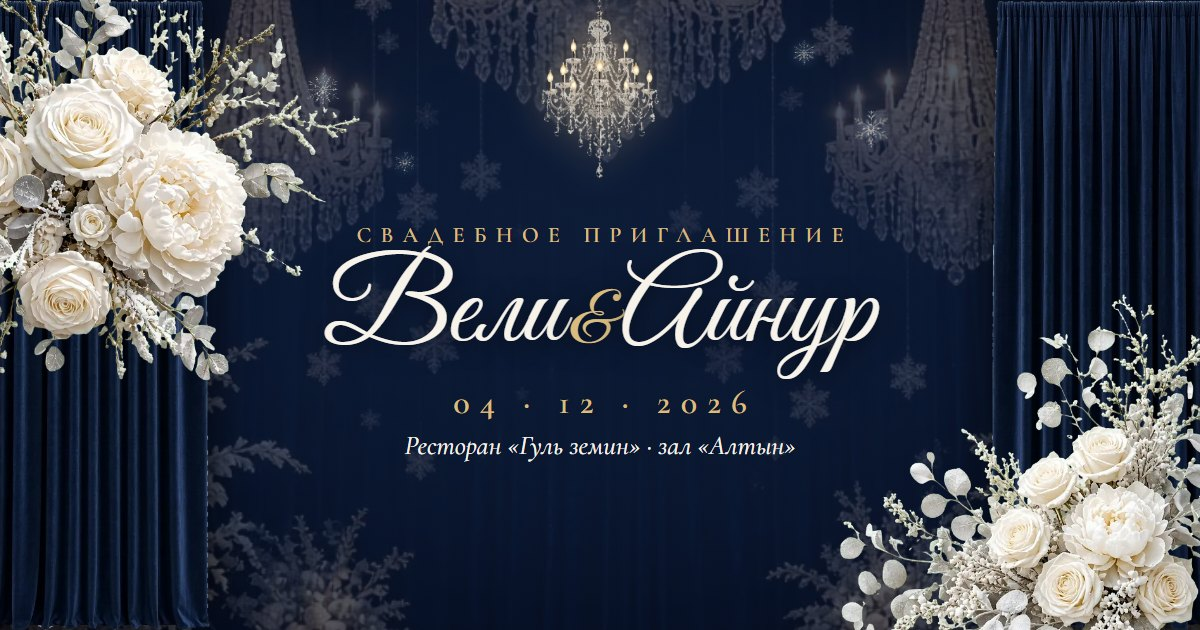
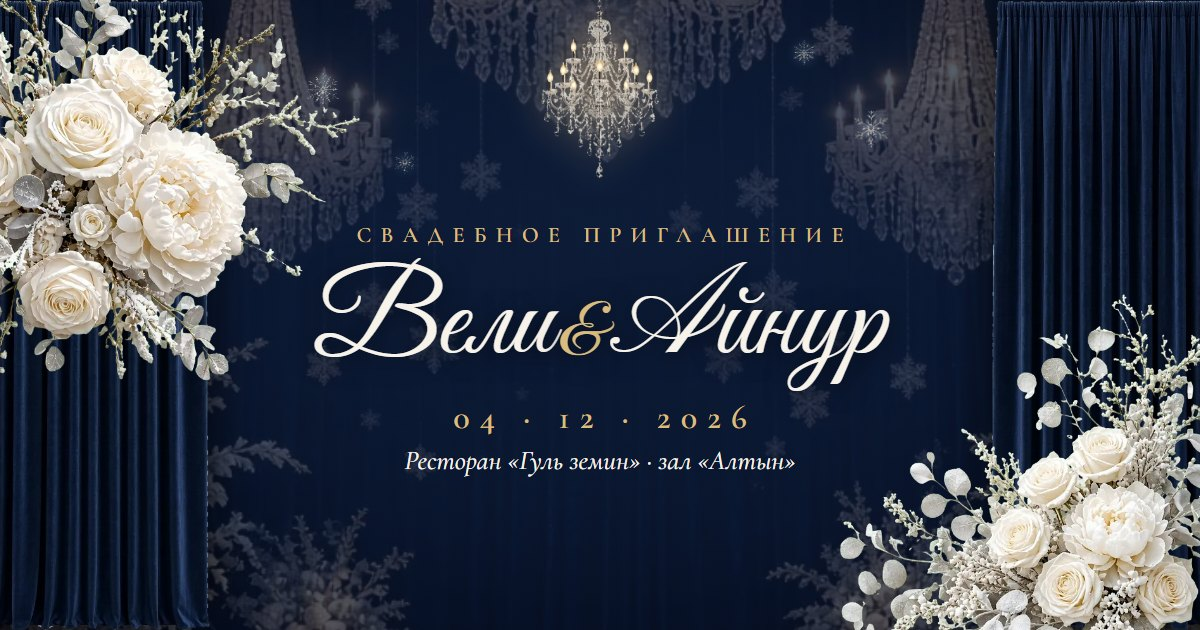
Program, photo order, cover and ending cleanup
- Cover: no swag or chandelier; bigger wreath, sits higher
- Photos: IMG_9020, IMG_9041, IMG_9100
- Evening program under «Где и когда», lines reveal on scroll
- Capital А in Айнур drawn from Pinyon Script
- Ending: initials only, no «Спасибо», no bottom flowers

Changed region(s): [[0.2467, 0.3921, 0.74, 0.6333], [0.3392, 0.6333, 0.6783, 0.754]]

diff --git a/style.css b/style.css
@@ -28,7 +28,7 @@ body.locked { overflow: hidden; height: 100svh; }
 img { display: block; max-width: 100%; }
 
 /* ===== Cover ===== */
-/* Layers, back to front: ballroom → curtains → glow → hanging flakes → chandelier → swag → text.
+/* Layers, back to front: ballroom → curtains → glow → hanging flakes → text.
    Curtains part to show the ballroom, then the whole gate fades into the hero photo. */
 .gate { position: fixed; inset: 0; z-index: 50; overflow: hidden; background: var(--navy); transition: opacity 1.2s 1.7s; }
 .gate.open { opacity: 0; }
@@ -44,23 +44,6 @@ img { display: block; max-width: 100%; }
 .open .curtain-l { transform: translateX(-104%); }
 .open .curtain-r { transform: translateX(104%) scaleX(-1); }
 
-.chandelier {   /* in the cover's flex column: takes the height left between swag and wreath, shrinks on short phones */
-  flex: 1 1 0; min-height: 0; max-height: 240px; width: 100%;
-  object-fit: contain; object-position: 50% 0;
-  margin-top: 20vw;   /* chain starts behind the swag */
-  filter: drop-shadow(0 0 22px rgba(255, 214, 140, .55));
-  animation: twinkle 4s ease-in-out infinite alternate;
-}
-.swag {
-  z-index: 5; top: 0; left: 50%; width: max(100%, 480px); translate: -50% 0;
-  margin-top: -6%;
-  filter: drop-shadow(0 8px 14px rgba(0, 0, 0, .5));
-  transition: transform 1.6s var(--ease) .5s;
-}
-.open .swag { transform: translateY(-110%); }
-@media (max-height: 700px) { .chandelier { visibility: hidden; } }   /* iPhone SE etc.: only a sliver would show under the swag */
-@keyframes twinkle { from { filter: drop-shadow(0 0 16px rgba(255, 214, 140, .4)); } to { filter: drop-shadow(0 0 30px rgba(255, 220, 160, .75)); } }
-
 .glow {
   position: absolute; inset: 0; z-index: 2; pointer-events: none;
   background: radial-gradient(60% 38% at 50% 12%, rgba(255, 224, 160, .3), transparent 70%);
@@ -69,7 +52,7 @@ img { display: block; max-width: 100%; }
 .open .glow { opacity: 0; }
 
 .cover {
-  position: absolute; inset: 0; z-index: 4;   /* under the swag so the chandelier chain hides behind it */
+  position: absolute; inset: 0; z-index: 4;
   display: flex; flex-direction: column; align-items: center; justify-content: flex-end;
   gap: min(12px, 1.4svh); padding: 0 24px calc(6svh + env(safe-area-inset-bottom)); text-align: center; color: var(--ivory);
   background: linear-gradient(transparent 45%, rgba(6, 14, 32, .55) 75%);
@@ -77,10 +60,10 @@ img { display: block; max-width: 100%; }
 }
 .open .cover { opacity: 0; transform: scale(.94); pointer-events: none; }
 
-.monogram { position: relative; width: min(52vw, 210px, 26svh); aspect-ratio: 1; display: grid; place-items: center; }
+.monogram { position: relative; width: min(74vw, 300px, 37svh); aspect-ratio: 1; display: grid; place-items: center; margin-bottom: 5svh; }
 .monogram img { position: absolute; inset: 0; width: 100%; height: 100%; }
 .monogram p {
-  position: relative; font: clamp(2.6rem, 12vw, 3.4rem)/1 var(--script); color: var(--gold);
+  position: relative; font: clamp(3rem, 15vw, 4.4rem)/1 var(--script); color: var(--gold);
   text-shadow: 0 0 14px rgba(6, 14, 32, .9), 0 0 18px rgba(255, 215, 150, .35);
 }
 .monogram i { font-style: normal; font-size: .55em; color: var(--ivory); padding: 0 2px; }
@@ -147,9 +130,10 @@ img { display: block; max-width: 100%; }
   opacity: 0; transform: translateY(24px); transition: opacity 1.4s 1.2s, transform 1.6s var(--ease) 1.2s;
 }
 .revealing .hero-text, body:not(.locked) .hero-text { opacity: 1; transform: none; }
-.kicker { letter-spacing: .34em; text-transform: uppercase; font-size: .8rem; color: var(--gold); }
+.kicker { letter-spacing: .34em; text-transform: uppercase; font-size: .8rem; color: var(--gold); margin-bottom: 22px; }
 .names { font: 400 clamp(3.4rem, 16vw, 6rem)/.95 var(--script); text-shadow: 0 2px 20px rgba(0, 0, 0, .45); }
-.names span { display: block; }
+.names > span { display: block; }
+.cap { font-family: 'Pinyon Script', var(--script); font-size: 1.12em; }
 .names .amp { font-size: .5em; color: var(--gold); line-height: 1.2; }
 .hero-date { margin-top: 10px; font-style: italic; font-size: 1.15rem; }
 .scroll-line {
@@ -172,7 +156,6 @@ img { display: block; max-width: 100%; }
 .corner { position: absolute; z-index: 0; width: min(60vw, 320px); pointer-events: none; }
 .corner-top { top: -14px; left: 4px; }
 .corner-bottom { bottom: -10px; right: -6px; }
-.spray { width: min(86%, 380px); margin: 0 auto 20px; }
 section { text-align: center; }
 .greeting, .date, .venue { padding: 64px 0; }
 .title { font: 400 2.8rem/1.1 var(--script); color: var(--ink); margin-bottom: 26px; }
@@ -231,12 +214,25 @@ section { text-align: center; }
 .map { border-radius: 4px; overflow: hidden; box-shadow: 0 8px 24px rgba(16, 32, 66, .15); margin-bottom: 24px; }
 .map iframe { display: block; width: 100%; height: 260px; border: 0; filter: saturate(.75); }
 
+/* Evening program: a gold line with a dot per item; each item fades in as it scrolls into view */
+.program { padding: 8px 0 64px; }
+.timeline { list-style: none; padding: 0; margin: 0 auto; max-width: 360px; position: relative; text-align: left; }
+.timeline::before { content: ''; position: absolute; left: 76px; top: 10px; bottom: 10px; width: 1px; background: linear-gradient(transparent, var(--gold-deep) 12%, var(--gold-deep) 88%, transparent); }
+.timeline li {
+  display: grid; grid-template-columns: 62px 1fr; gap: 28px; align-items: baseline; padding: 12px 0; position: relative;
+  opacity: 0; transform: translateY(18px); transition: opacity .8s, transform 1s var(--ease);
+}
+.timeline li.in { opacity: 1; transform: none; }
+.timeline li::before { content: ''; position: absolute; left: 72px; top: 22px; width: 9px; height: 9px; border-radius: 50%; background: var(--ivory); border: 1px solid var(--gold-deep); }
+.timeline time { font-size: 1.35rem; font-weight: 600; color: var(--gold-deep); text-align: right; font-variant-numeric: tabular-nums; }
+.timeline span { font-size: 1.2rem; line-height: 1.35; }
+
 .date, .venue, .greeting { opacity: 0; transform: translateY(24px); transition: opacity 1s, transform 1.2s var(--ease); }
 .date.in, .venue.in, .greeting.in { opacity: 1; transform: none; }
 
 /* ===== Closing ===== */
 .closing {
-  position: relative; overflow: hidden; padding: 24svh 24px 0; color: var(--ivory); background: var(--navy);
+  position: relative; overflow: hidden; padding: 20svh 24px 14svh; color: var(--ivory); background: var(--navy);
 }
 .closing-room { position: absolute; inset: 0; width: 100%; height: 100%; object-fit: cover; opacity: .7; }
 .closing::before {   /* darken top and middle so the text stays readable */
@@ -246,11 +242,9 @@ section { text-align: center; }
 .closing > :not(.closing-room) { position: relative; z-index: 3; }
 .closing-wreath { width: min(84vw, 360px); aspect-ratio: 1; margin: 0 auto; display: grid; place-items: center; }
 .closing-wreath img { position: absolute; inset: 0; width: 100%; height: 100%; }
-.closing-wreath div { position: relative; }
-.closing-fg { display: block; width: min(112%, 760px); max-width: none; margin: 18px 0 0 50%; translate: -50% 6%; }  /* wider than its box: margin:auto would only overflow to the right */
 .closing .hangers { z-index: 2; }
-.thanks { font: clamp(3rem, 14vw, 3.8rem)/1 var(--script); color: var(--gold); text-shadow: 0 0 14px rgba(6, 14, 32, .9), 0 0 22px rgba(255, 215, 150, .35); }
-.sig { font: clamp(1.8rem, 8vw, 2.2rem)/1.3 var(--script); margin-top: 4px; text-shadow: 0 0 12px rgba(6, 14, 32, .9); }
+.closing-mono { position: relative; font: clamp(3.4rem, 17vw, 4.6rem)/1 var(--script); color: var(--gold); text-shadow: 0 0 14px rgba(6, 14, 32, .9), 0 0 22px rgba(255, 215, 150, .35); }
+.closing-mono i { font-style: normal; font-size: .55em; color: var(--ivory); padding: 0 2px; }
 .closing-note { max-width: 420px; margin: 22px auto 0; font-style: italic; font-size: 1.25rem; opacity: .92; }
 footer { background: #071025; color: rgba(217, 188, 126, .75); text-align: center; padding: 22px; letter-spacing: .24em; font-size: .85rem; }
 

diff --git a/index.html b/index.html
@@ -21,14 +21,12 @@
 <link rel="icon" href="assets/flake-2.webp" type="image/webp">
 <link rel="preconnect" href="https://fonts.googleapis.com">
 <link rel="preconnect" href="https://fonts.gstatic.com" crossorigin>
-<link href="https://fonts.googleapis.com/css2?family=Cormorant+Garamond:ital,wght@0,400;0,500;0,600;1,400;1,500&family=Great+Vibes&display=swap" rel="stylesheet">
+<link href="https://fonts.googleapis.com/css2?family=Cormorant+Garamond:ital,wght@0,400;0,500;0,600;1,400;1,500&family=Great+Vibes&family=Pinyon+Script&display=swap" rel="stylesheet">
 <link rel="preload" as="image" href="assets/curtain.webp">
-<link rel="preload" as="image" href="assets/swag.webp">
 <link rel="preload" as="image" href="assets/wreath.webp">
-<link rel="preload" as="image" href="assets/chandelier.webp">
 <link rel="preload" as="image" href="assets/ballroom.webp">
 <link rel="preload" as="image" href="assets/hero.webp">
-<link rel="stylesheet" href="style.css?v=9"><!-- bump ?v= on every change so phones skip their cached copy -->
+<link rel="stylesheet" href="style.css?v=10"><!-- bump ?v= on every change so phones skip their cached copy -->
 
 <script>
 // ===== EDIT ONLY THIS BLOCK =====
@@ -40,6 +38,13 @@ const CONFIG = {
   greeting: 'Два сердца, одна судьба. С огромной радостью приглашаем вас разделить с нами самый счастливый день — день, когда начинается наша семья.',
   events: [
     { title: 'Свадебное торжество', time: '18:00', place: 'Ресторан «Гуль земин»', address: 'Большой зал «Алтын»' },
+  ],
+  program: [                            // evening program, shown under «Где и когда»
+    { time: '18:00', title: 'Сбор гостей' },
+    { time: '18:30', title: 'Торжественный выход молодожёнов' },
+    { time: '19:00', title: 'Начало праздничной программы' },
+    { time: '21:00', title: 'Свадебный торт' },
+    { time: '22:30', title: 'Завершение вечера' },
   ],
   mapQuery: '',  // Google Maps search text or "lat,lng" (not shown to guests); '' hides the map. Google doesn't find «Гуль земин» by name.
   closing: 'Ваше присутствие — самый ценный подарок для нас. С нетерпением ждём встречи с вами в этот зимний вечер!',
@@ -56,10 +61,8 @@ const CONFIG = {
   <img class="curtain curtain-r" src="assets/curtain.webp" alt="">
   <div class="glow" aria-hidden="true"></div>
   <div class="hangers" data-hang="7" aria-hidden="true"></div>
-  <img class="swag" src="assets/swag.webp" alt="">
 
   <div class="cover">
-    <img class="chandelier" src="assets/chandelier.webp" alt="">
     <div class="monogram">
       <img src="assets/wreath.webp" alt="">
       <p><span data-c="g0"></span><i>&amp;</i><span data-c="b0"></span></p>
@@ -99,7 +102,7 @@ const CONFIG = {
     </section>
 
     <figure class="frame tilt-l">
-      <img src="assets/photo-1.webp" alt="Вели и Айнур на набережной у мечети Ортакёй" loading="lazy" width="900" height="1350">
+      <img src="assets/photo-1.webp" alt="Айнур оборачивается, держа Вели за руку" loading="lazy" width="900" height="1350">
       <figcaption>Вместе — навсегда</figcaption>
     </figure>
 
@@ -120,16 +123,21 @@ const CONFIG = {
 
     <!-- Venue -->
     <section class="venue">
-      <img class="spray" src="assets/florals-spray.webp" alt="" loading="lazy">
-      <h2 class="title">Когда и где</h2>
+      <h2 class="title">Где и когда</h2>
       <p class="v-day" data-c="dateLong"></p>
       <div id="events"></div>
       <div class="map"><iframe id="map" title="Карта места проведения" loading="lazy" referrerpolicy="no-referrer-when-downgrade"></iframe></div>
       <a class="btn dark" id="directions" target="_blank" rel="noopener">Построить маршрут</a>
     </section>
 
+    <!-- Evening program: each line reveals as it scrolls in -->
+    <section class="program">
+      <h2 class="title">Программа вечера</h2>
+      <ol class="timeline" id="program"></ol>
+    </section>
+
     <figure class="frame tilt-r">
-      <img src="assets/photo-2.webp" alt="Айнур оборачивается, держа Вели за руку" loading="lazy" width="900" height="1350">
+      <img src="assets/photo-2.webp" alt="Вели и Айнур на набережной у мечети Ортакёй" loading="lazy" width="900" height="1350">
       <figcaption>До встречи на нашем празднике</figcaption>
     </figure>
   </div>
@@ -140,13 +148,9 @@ const CONFIG = {
     <div class="hangers" data-hang="5" aria-hidden="true"></div>
     <div class="closing-wreath">
       <img src="assets/wreath.webp" alt="" loading="lazy">
-      <div>
-        <p class="thanks">Спасибо</p>
-        <p class="sig" data-c="couple"></p>
-      </div>
+      <p class="closing-mono"><span data-c="g0"></span><i>&amp;</i><span data-c="b0"></span></p>
     </div>
     <p class="closing-note" data-c="closing"></p>
-    <img class="closing-fg" src="assets/foreground.webp" alt="" loading="lazy">
   </section>
   <footer><span data-c="initials"></span> · <span data-c="dateDots"></span></footer>
 </main>
@@ -156,6 +160,6 @@ const CONFIG = {
 </button>
 <audio id="audio" loop preload="none"></audio>
 
-<script src="script.js?v=9"></script>
+<script src="script.js?v=10"></script>
 </body>
 </html>

diff --git a/script.js b/script.js
@@ -28,6 +28,35 @@ document.querySelectorAll('[data-c]').forEach((el) => {
   if (v) el.textContent = v; else el.remove();
 });
 
+// Great Vibes draws «А» like an oversized lowercase a; take a word-initial А from Pinyon Script
+// (Latin A: same letter, Pinyon has no Cyrillic). Screen readers get the original text via aria-label.
+document.querySelectorAll('.names > span, .cover-names, .monogram span, .closing-mono span').forEach((el) => {
+  const parts = el.textContent.split(/(?<=^|\s)А/);
+  if (parts.length < 2) return;
+  el.setAttribute('aria-label', el.textContent);
+  el.replaceChildren(...parts.flatMap((p, i) => {
+    if (!i) return [p];
+    const c = document.createElement('span');
+    c.className = 'cap';
+    c.ariaHidden = 'true';
+    c.textContent = 'A';
+    return [c, p];
+  }));
+});
+
+// ---- Evening program ----
+const programEl = $('#program');
+(C.program || []).forEach((item) => {
+  const li = document.createElement('li');
+  const time = document.createElement('time');
+  time.textContent = item.time;
+  const title = document.createElement('span');
+  title.textContent = item.title;
+  li.append(time, title);
+  programEl.append(li);
+});
+if (!programEl.children.length) programEl.closest('section').remove();
+
 
 // Greeting: one span per word so each can light up as it scrolls in
 const verse = $('#verse');
@@ -98,10 +127,12 @@ audio.addEventListener('play', () => { musicBtn.classList.add('playing'); musicB
 audio.addEventListener('pause', () => { musicBtn.classList.remove('playing'); musicBtn.ariaLabel = 'Включить музыку'; });
 
 // ---- Reveal on scroll ----
-const io = new IntersectionObserver((es) => es.forEach((e) => {
-  if (e.isIntersecting) { e.target.classList.add('in'); io.unobserve(e.target); }
-}), { threshold: 0.25 });
-document.querySelectorAll('.greeting, .frame, .date, .venue, .closing').forEach((el) => io.observe(el));
+const io = new IntersectionObserver((es) => es.filter((e) => e.isIntersecting).forEach((e, k) => {
+  e.target.style.transitionDelay = `${k * 0.18}s`;   // several entering at once still appear one after another
+  e.target.classList.add('in');
+  io.unobserve(e.target);
+}), { threshold: 0.25, rootMargin: '0px 0px -8% 0px' });
+document.querySelectorAll('.greeting, .frame, .date, .venue, .program, .timeline li, .closing').forEach((el) => io.observe(el));
 
 // ---- Calendar (month of the wedding, Monday first) ----
 const firstDow = (new Date(Date.UTC(y, mo - 1, 1)).getUTCDay() + 6) % 7;
